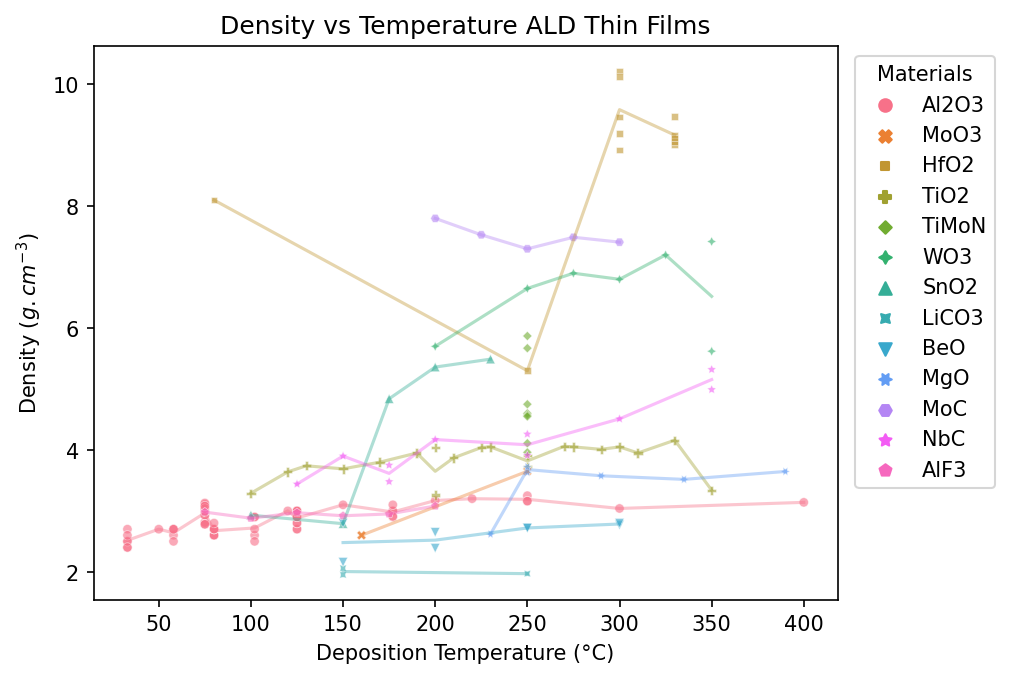
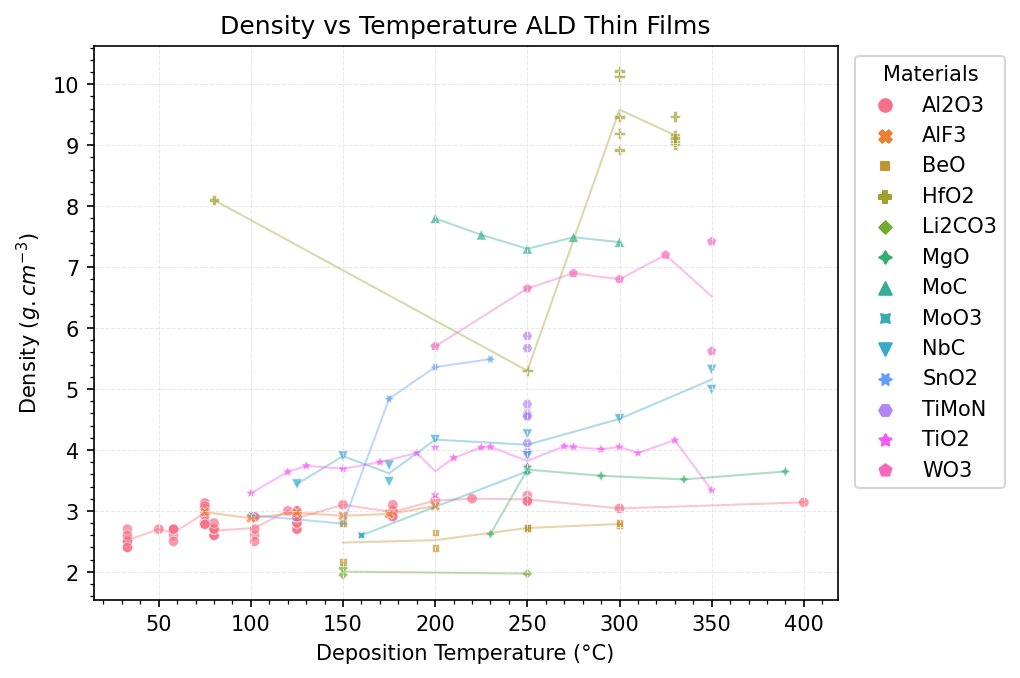
added grid and made points slightly larger

diff --git a/scripts/plot_ald.py b/scripts/plot_ald.py
@@ -12,6 +12,8 @@ import numpy as np
 import seaborn as sns
 from scipy import stats
 import matplotlib.pyplot as plt
+from matplotlib.ticker import AutoMinorLocator
+import random
 
 
 sheet_id = "1CnYIYPMymwAKaVlElBk4ceNN2RtTxpKIHTzuTRjfY3s"
@@ -72,13 +74,24 @@ print(df_plot2.groupby(Z)[X].nunique(), "\n")
 
 
 def get_line_plot(df, x, y, z):
-    fig, ax = plt.subplots()
+    # sns.set(style='darkgrid')
+    # sns.set(rc={'axes.facecolor':'aliceblue', 'axes.edgecolor':'grey'})
+    # sns.set(rc={"xtick.bottom" : True, "ytick.left" : True, 
+    #     "xtick.color" : 'silver', "ytick.color" : 'silver'})
+
+
+
+    fig, ax = plt.subplots() # figsize=(6, 7)
+    ax.grid(True, color = '#e8e8e6', linestyle = '--', linewidth = 0.5)
     # ax = fig.add_subplot()
     # ax = sns.lineplot(data=df, x=x, y=y, hue=z, marker="o", ci=None, markersize=4, alpha = 0.9, linestyle='')
     # sns.lineplot(data=df, x=x, y=y, ax=ax, sort=False, hue=z, dashes=False, alpha=0.3, legend=False, ci=None)
+    order_z = list(df.sort_values(by=[Z], ascending=True)[Z].unique())
+    # random.Random(2).shuffle(order_z)
+    print(order_z)
 
-    g1 = sns.scatterplot(ax=ax, data=df, x=x, y=y, hue=z, alpha=0.6, s=20, style=z)
-    g2 = sns.lineplot(ax=ax, data=df, x=x, y=y, hue=z, alpha=0.4, ci=None, legend=False)
+    g2 = sns.lineplot(ax=ax, data=df, x=x, y=y, hue=z, alpha=0.4, lw=1, ci=None, legend=False, hue_order=order_z)
+    g1 = sns.scatterplot(ax=ax, data=df, x=x, y=y, hue=z, alpha=0.7, s=25, style=z, hue_order=order_z, style_order=order_z)
 
     # SET PLOT TITLE
     plt.title("Density vs Temperature ALD Thin Films")
@@ -97,6 +110,10 @@ def get_line_plot(df, x, y, z):
 
     plt.legend(title=f"{z}s", loc=2, bbox_to_anchor=(1.01, 1));
 
+
+    ax.xaxis.set_minor_locator(AutoMinorLocator(5))
+    ax.yaxis.set_major_locator(plt.MultipleLocator(1))
+    ax.yaxis.set_minor_locator(AutoMinorLocator(5))
 
     return fig
 
